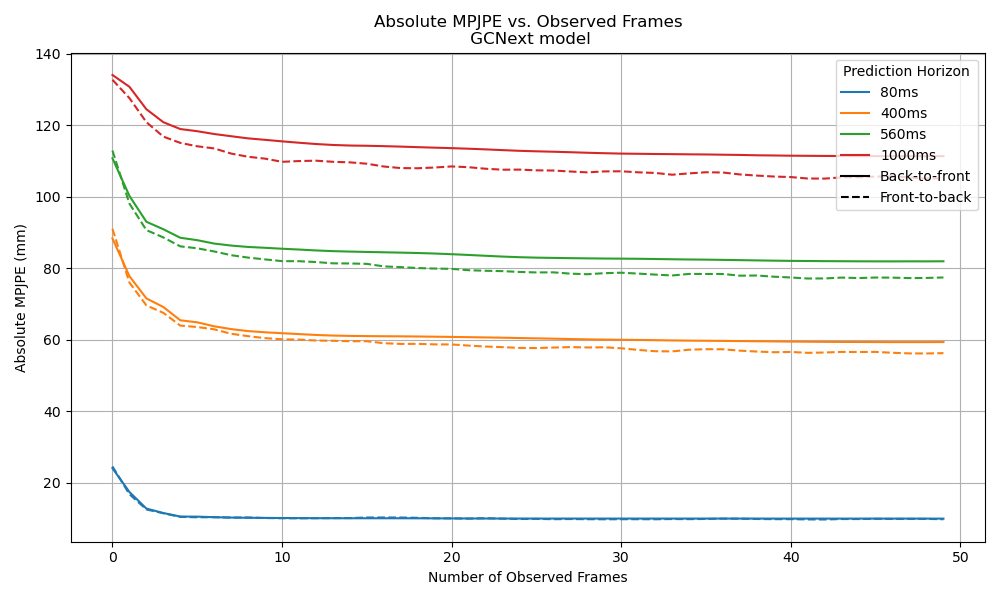
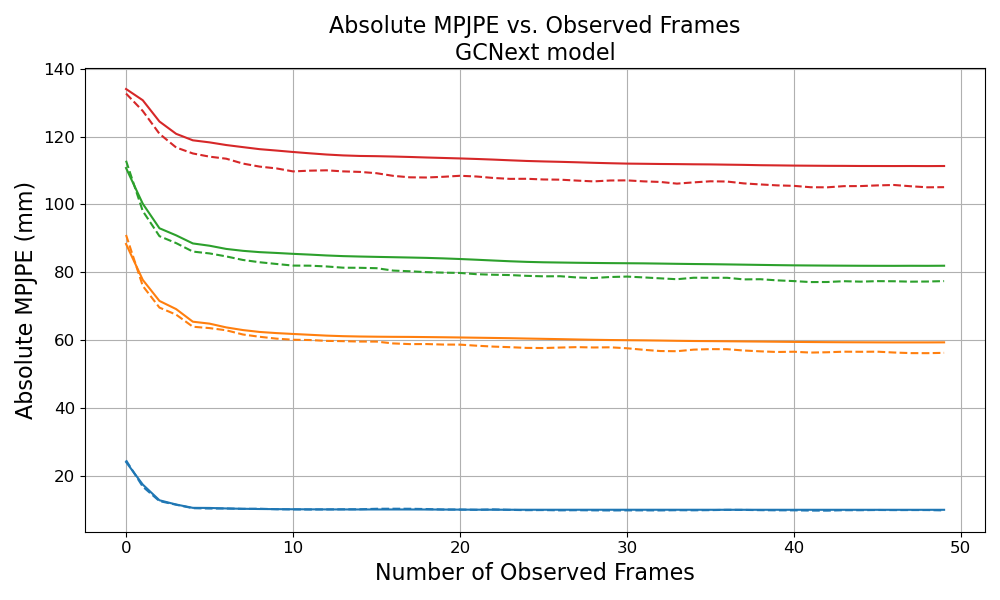
Seperate legend and plots

diff --git a/exps/run/eval_ftb_btf.py b/exps/run/eval_ftb_btf.py
@@ -3,6 +3,7 @@ from matplotlib.lines import Line2D
 import numpy as np
 import matplotlib.pyplot as plt
 
+fontsize = 16
 # Define your groups
 static_actions = ["Sitting", "SittingDown", "Posing"]
 combination_actions =["Discussion", "Directions", "Phoning", "Eating", "Waiting", "Smoking", "Purchases", "TakingPhoto"]
@@ -11,7 +12,7 @@ dynamic_actions = ["Walking", "WalkingTogether", "WalkingDog", "Greeting"]
 all_actions = static_actions + combination_actions + dynamic_actions
 
 # Parse the data
-def parse_action_data(filename, body_part):
+def parse_physmop_data(filename, body_part):
     data = []
     found_section = False
     header = f"Averaged MPJPE ({body_part}) for each observation length and each selected timestep:"
@@ -84,105 +85,149 @@ def group_average(actions, action_data):
     else:
         return None
 
-back_to_front = parse_gcn_data_average("performance_logs/gcnext_performance_back_to_front.txt")
-# back_to_front_lower = parse_gcn_data_average("performance_logs/gcnext_performance_back_to_front.txt")
-front_to_back_upper = parse_gcn_data("performance_logs/gcnext_performance_front_to_back.txt", "upper")
-front_to_back_lower = parse_gcn_data("performance_logs/gcnext_performance_front_to_back.txt", "lower")
-print(front_to_back_upper.keys())
+# GCN parsing
+gcn_back_to_front = parse_gcn_data_average("performance_logs/gcnext_performance_back_to_front.txt")
+gcn_front_to_back_upper = parse_gcn_data("performance_logs/gcnext_performance_front_to_back.txt", "upper")
+gcn_front_to_back_lower = parse_gcn_data("performance_logs/gcnext_performance_front_to_back.txt", "lower")
 
-front_to_back_upper = group_average(all_actions, front_to_back_upper)
-front_to_back_lower = group_average(all_actions, front_to_back_lower)
-front_to_back = np.mean([front_to_back_upper, front_to_back_lower], axis=0)  # shape: (50, 4)
-# Combine upper and lower body data for back-to-front and front-to-back
-# back_to_front = np.mean([back_to_front_upper, back_to_front_lower], axis=0)  # shape: (50, 8)
-# front_to_back = np.mean([front_to_back_upper, front_to_back_lower], axis=0)  # shape: (50, 8)
+front_to_back_upper = group_average(all_actions, gcn_front_to_back_upper)
+front_to_back_lower = group_average(all_actions, gcn_front_to_back_lower)
+gcn_front_to_back = np.mean([front_to_back_upper, front_to_back_lower], axis=0)  # shape: (50, 4)
 
-# # Select the relevant columns for the 4 timesteps
-# back_to_front = back_to_front[:, [0, 3, 4, 7]]  # shape: (50, 4)
-# front_to_back = front_to_back[:, [0, 3, 4, 7]]  # shape: (50, 4)
-print("Back-to-front shape:", back_to_front.shape)
-print("Front-to-back shape:", front_to_back.shape)
+# PhysMoP parsing
+physmop_data_back_to_front_upper = parse_physmop_data("performance_logs/physmop_data_mpjpe_log.txt", "upper body")[:, [0, 3, 4, 7]]
+physmop_data_back_to_front_lower = parse_physmop_data("performance_logs/physmop_data_mpjpe_log.txt", "lower body")[:, [0, 3, 4, 7]]
+physmop_data_back_to_front = np.mean([physmop_data_back_to_front_upper, physmop_data_back_to_front_lower], axis=0)  # shape: (50, 4)
+
+physmop_data_front_to_back_upper = parse_physmop_data("performance_logs/physmop_data_mpjpe_log_front_to_back.txt", "upper body")[:, [0, 3, 4, 7]]
+physmop_data_front_to_back_lower = parse_physmop_data("performance_logs/physmop_data_mpjpe_log_front_to_back.txt", "lower body")[:, [0, 3, 4, 7]]
+physmop_data_front_to_back = np.mean([physmop_data_front_to_back_upper, physmop_data_front_to_back_lower], axis=0)  # shape: (50, 4)
+
+physmop_physics_back_to_front_upper = parse_physmop_data("performance_logs/physmop_physics_mpjpe_log.txt", "upper body")[:, [0, 3, 4, 7]]
+physmop_physics_back_to_front_lower = parse_physmop_data("performance_logs/physmop_physics_mpjpe_log.txt", "lower body")[:, [0, 3, 4, 7]]
+physmop_physics_back_to_front = np.mean([physmop_physics_back_to_front_upper, physmop_physics_back_to_front_lower], axis=0)  # shape: (50, 4)
+
+physmop_physics_front_to_back_upper = parse_physmop_data("performance_logs/physmop_physics_mpjpe_log_front_to_back.txt", "upper body")[:, [0, 3, 4, 7]]
+physmop_physics_front_to_back_lower = parse_physmop_data("performance_logs/physmop_physics_mpjpe_log_front_to_back.txt", "lower body")[:, [0, 3, 4, 7]]
+physmop_physics_front_to_back = np.mean([physmop_physics_front_to_back_upper, physmop_physics_front_to_back_lower], axis=0)  # shape: (50, 4)
+
+
 
 # Calculate Mean Absolute Difference (MAD) between ftb and btf for each prediction horizon
-mad = np.mean(np.abs(front_to_back - back_to_front), axis=0)
+mad = np.mean(np.abs(gcn_front_to_back - gcn_back_to_front), axis=0)
 print("Mean Absolute Difference (MAD) between Front-to-Back and Back-to-Front for each prediction horizon:")
 for i, horizon in enumerate(["80ms", "400ms", "560ms", "1000ms"]):
     print(f"{horizon}: {mad[i]:.2f} mm")
 
 # Mean MPJPE per horizon (across frames)
-mean_back = np.mean(back_to_front, axis=0)   # shape: (4,)
-mean_front = np.mean(front_to_back, axis=0)  # shape: (4,)
+mean_back = np.mean(gcn_back_to_front, axis=0)   # shape: (4,)
+mean_front = np.mean(gcn_front_to_back, axis=0)  # shape: (4,)
 
-# Percentage difference (Tim J. Cole, 2000)
 percentage_diff = np.abs(mean_back - mean_front) / ((mean_back + mean_front) / 2) * 100
 print("Percentage difference between back-to-front and front-to-back (%):", percentage_diff)
 
-# Aggregate by group
-def group_average(actions, action_data):
-    group = []
-    for act in actions:
-        if act in action_data:
-            group.append(np.array(action_data[act][:50]))  # shape: (50, 4)
-    if group:
-        return np.mean(np.stack(group), axis=0)  # shape: (50, 4)
-    else:
-        return None
-
-# back_to_front_avg = group_average(all_actions, back_to_front)
-# front_to_back_avg = group_average(all_actions, front_to_back)
-
-# Compute relative MPJPE (percentage of first observation)
-def relative_mpjpe(avg):
-    return 100 * avg / avg[0]  # shape: (50, 4)
-
-# back_to_front_rel = relative_mpjpe(back_to_front_avg)
-# front_to_back_rel = relative_mpjpe(front_to_back_avg)
-
 colors = plt.get_cmap('tab10').colors  # 4 distinct colors
 
+# First legend (colored lines)
+lines_color = [
+    Line2D([], [], color=colors[0], linestyle='-', linewidth=1.5, label='80ms'),
+    Line2D([], [], color=colors[1], linestyle='-', linewidth=1.5, label='400ms'),
+    Line2D([], [], color=colors[2], linestyle='-', linewidth=1.5, label='560ms'),
+    Line2D([], [], color=colors[3], linestyle='-', linewidth=1.5, label='1000ms'),
+]
+
+# Second legend (line styles)
+lines_style = [
+    Line2D([], [], color='black', linestyle='-', linewidth=1.5, label='Back-to-front'),
+    Line2D([], [], color='black', linestyle='--', linewidth=1.5, label='Front-to-back'),
+]
+
+# --- GCNext Plot ---
 plt.figure(figsize=(10,6))
 for i, label in enumerate(["80ms", "400ms", "560ms", "1000ms"]):
-    plt.plot(back_to_front[:, i], label=f"{label} Back-to-front", color=colors[i], linestyle='-')
-    plt.plot(front_to_back[:, i], label=f"{label} Front-to-back", color=colors[i], linestyle='--')
-plt.xlabel("Number of Observed Frames")
-plt.ylabel("Absolute MPJPE (mm)")
-plt.title("Absolute MPJPE vs. Observed Frames\n GCNext model")
-
-# First legend
-first_line = Line2D([], [], color=colors[0], linestyle='-', linewidth=1.5, label='80ms')
-second_line = Line2D([], [], color=colors[1], linestyle='-', linewidth=1.5, label='400ms')
-third_line = Line2D([], [], color=colors[2], linestyle='-', linewidth=1.5, label='560ms')
-fourth_line = Line2D([], [], color=colors[3], linestyle='-', linewidth=1.5, label='1000ms')
-
-# Second legend
-line_solid = Line2D([], [], color='black', linestyle='-', linewidth=1.5, label="Back-to-front")
-line_dashed = Line2D([], [], color='black', linestyle='--', linewidth=1.5, label="Front-to-back")
-
-
-# first_legend = plt.legend(handles=[first_line, second_line, third_line, fourth_line], loc='upper right', 
-#                           bbox_to_anchor=(1.0, 1.0), 
-#                           title='Timesteps into the future')
-# ax = plt.gca().add_artist(first_legend)
-# second_legend = plt.legend(handles=[line_solid, line_dashed], loc='upper right', 
-#                            bbox_to_anchor=(0.88, 1.0),
-#                            title='Line types')
-# Combine all handles and labels into one legend
-all_handles = [
-    first_line, second_line, third_line, fourth_line,  # Timesteps/colors
-    line_solid, line_dashed                           # Line types
-]
-all_labels = [
-    '80ms', '400ms', '560ms', '1000ms',               # Timesteps/colors
-    'Back-to-front', 'Front-to-back'                  # Line types
-]
-
-plt.legend(
-    handles=all_handles,
-    labels=all_labels,
-    loc='best',
-    # bbox_to_anchor=(1.6, 1.0),
-    title='Prediction Horizon'
-)
+    plt.plot(gcn_back_to_front[:, i], label=f"{label} Back-to-front", color=colors[i], linestyle='-')
+    plt.plot(gcn_front_to_back[:, i], label=f"{label} Front-to-back", color=colors[i], linestyle='--')
+plt.xlabel("Number of Observed Frames", fontsize=fontsize)
+plt.ylabel("Absolute MPJPE (mm)", fontsize=fontsize)
+plt.tick_params(axis='both', labelsize=fontsize-4)
+plt.title("Absolute MPJPE vs. Observed Frames\nGCNext model", fontsize=fontsize)
+# plt.legend(handles=all_handles, labels=all_labels, loc='best', title='Prediction Horizon')
 plt.grid(True)
 plt.tight_layout()
-plt.show()
+plt.savefig("figures/feeding_order_gcnext.png")
+plt.close()
+
+# --- PhysMoP Data Plot ---
+plt.figure(figsize=(10,6))
+for i, label in enumerate(["80ms", "400ms", "560ms", "1000ms"]):
+    plt.plot(physmop_data_back_to_front[:, i], label=f"{label} Back-to-front", color=colors[i], linestyle='-')
+    plt.plot(physmop_data_front_to_back[:, i], label=f"{label} Front-to-back", color=colors[i], linestyle='--')
+plt.xlabel("Number of Observed Frames", fontsize=fontsize)
+plt.ylabel("Absolute MPJPE (mm)", fontsize=fontsize)
+plt.tick_params(axis='both', labelsize=fontsize-4)
+plt.title("Absolute MPJPE vs. Observed Frames\nPhysMoP Data", fontsize=fontsize)
+# plt.legend(handles=all_handles, labels=all_labels, loc='best', title='Prediction Horizon')
+plt.grid(True)
+plt.tight_layout()
+plt.savefig("figures/feeding_order_physmop_data.png")
+plt.close()
+
+# --- PhysMoP Physics Plot ---
+plt.figure(figsize=(10,6))
+for i, label in enumerate(["80ms", "400ms", "560ms", "1000ms"]):
+    plt.plot(physmop_physics_back_to_front[:, i], label=f"{label} Back-to-front", color=colors[i], linestyle='-')
+    plt.plot(physmop_physics_front_to_back[:, i], label=f"{label} Front-to-back", color=colors[i], linestyle='--')
+plt.xlabel("Number of Observed Frames", fontsize=fontsize)
+plt.ylabel("Absolute MPJPE (mm)", fontsize=fontsize)
+plt.tick_params(axis='both', labelsize=fontsize-4)
+plt.title("Absolute MPJPE vs. Observed Frames\nPhysMoP Physics", fontsize=fontsize)
+# plt.legend(handles=all_handles, labels=all_labels, loc='best', title='Prediction Horizon')
+plt.grid(True)
+plt.tight_layout()
+plt.savefig("figures/feeding_order_physmop_physics.png")
+plt.close()
+
+# --- Legend-only figure ---
+fig = plt.figure(figsize=(5, 1.3))
+ax = fig.add_subplot(111)
+ax.axis("off")
+
+# First legend (Prediction Horizon)
+legend1 = ax.legend(
+    handles=lines_color,
+    loc='upper center',
+    ncol=4,
+    frameon=False,
+    fontsize=11,
+    handlelength=2,
+    handletextpad=0.8,
+    columnspacing=1.5,
+    bbox_to_anchor=(0.5, 1.0),
+    title='Prediction Horizon',
+    title_fontsize=12            
+)
+# Move the title upward slightly
+legend1.get_title().set_position((0, 10))  # (x, y) offset in points
+ax.add_artist(legend1)
+
+# Second legend (Line styles)
+legend2 = ax.legend(
+    handles=lines_style,
+    loc='lower center',
+    ncol=2,
+    frameon=False,
+    fontsize=11,
+    handlelength=2,
+    handletextpad=0.8,
+    columnspacing=2,
+    bbox_to_anchor=(0.5, 0.0)  
+)
+
+fig.savefig(
+    "figures/legend_ftb_btf.png",
+    dpi=300,
+    bbox_inches="tight",
+    bbox_extra_artists=(legend1, legend2),
+    pad_inches=0.05
+)
+plt.close(fig)
